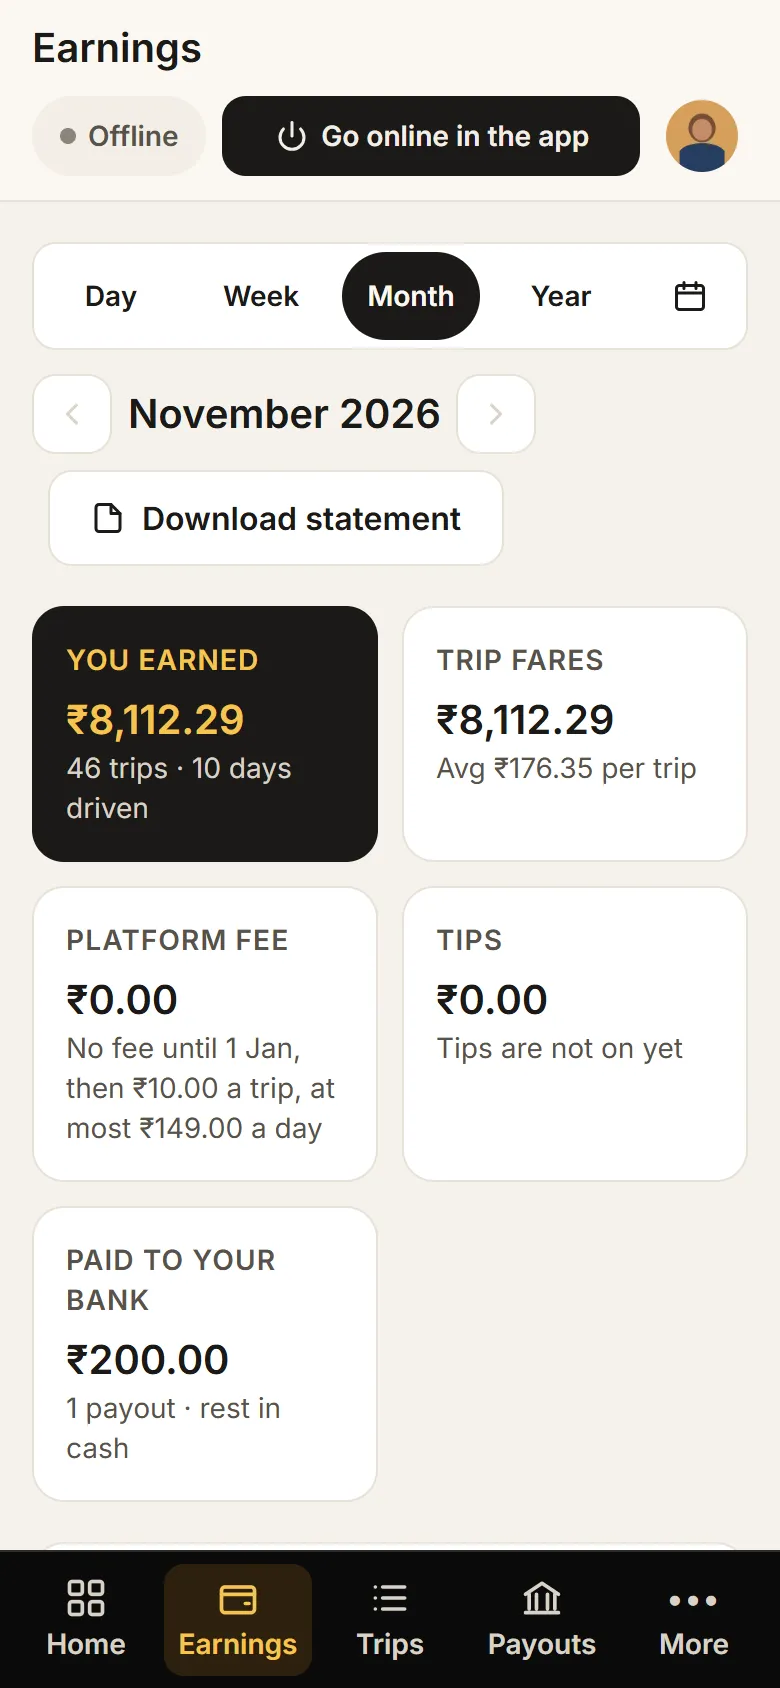
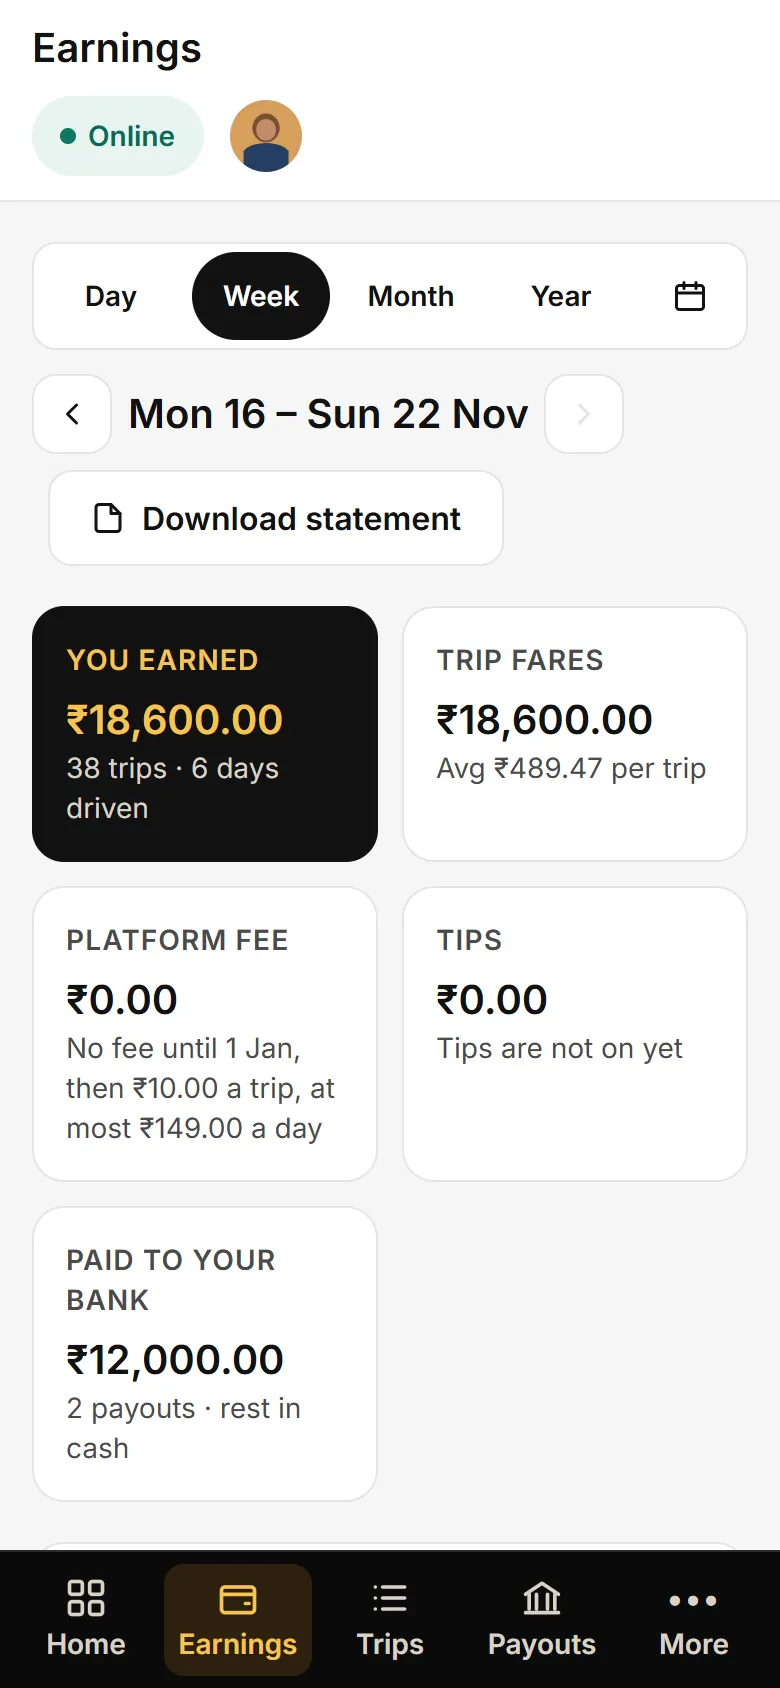
Phase 2 batch 2: every signed-in screen passes the 320-1920 sweep
- Sweep gates all public pages plus the signed-in rider and driver pages
  (signed fixture session), runs jobs in parallel, credits ::before hit
  areas, clips overlap checks to scroll containers, and exempts chart bars
  (each day is also a full-size row in the list).
- Area fixes: 44px row links, Cancel ride and open buttons; hit areas on
  every touch screen up to 1024px; rider header, Go online, rows, pills,
  period switcher, payouts search, document tiles and legal links wrap at
  the largest text; long emails wrap; dashboard chart scrolls in its card.
- Visual gates compare 390 as well as 1440; baselines re-recorded.
- Demo frames for Home and Safety (3-4 min ETAs, believable driver week,
  online, shared trip with its target); trip safety panel without the
  duplicate button row when embedded.

diff --git a/apps/web/src/styles/area.css b/apps/web/src/styles/area.css
@@ -697,11 +697,13 @@ button.er-bar { cursor: pointer; }
   content: ''; position: absolute; left: 50%; top: 50%; width: max(100%, 44px); height: max(100%, 44px);
   transform: translate(-50%, -50%);
 }
-.aemail { display: inline-block; max-width: 100%; overflow: hidden; text-overflow: ellipsis; white-space: nowrap; vertical-align: bottom; }
+/* 17 Nov: a long address wraps rather than being cut with an ellipsis. */
+.aemail { display: inline-block; max-width: 100%; overflow-wrap: anywhere; vertical-align: bottom; }
 /* 14 Nov: on a phone every tappable thing in the areas has a 44x44 hit area. Zero specificity, so
    any element that already sets its position keeps it; the pseudo-element widens what a finger hits
-   without changing what is drawn. */
-@media (max-width: 767px) {
+   without changing what is drawn. 17 Nov: every touch screen and anything up to tablet width, not
+   just phones. */
+@media (max-width: 1024px), (pointer: coarse) {
   :where(.ar) :where(a[href], button, summary, [role="switch"], [role="tab"], [role="radio"], [role="menuitem"]) { position: relative; }
   :where(.ar) :where(a[href], button, summary, [role="switch"], [role="tab"], [role="radio"], [role="menuitem"])::before {
     content: ''; position: absolute; left: 50%; top: 50%; width: max(100%, 44px); height: max(100%, 44px);
@@ -721,3 +723,43 @@ button.er-bar { cursor: pointer; }
   .er-files .su-link { min-width: 44px; min-height: 44px; }
   .ar-top > a:first-child { min-width: 44px; min-height: 44px; }
 }
+
+/* 17 Nov (any size): row buttons are 44px targets; a short map drops its long fallback line. */
+.tr-open__btn { display: inline-flex; align-items: center; min-height: 44px; }
+.ar-map { container: armap / size; }
+@container armap (max-height: 380px) { .ar-map .map-surface p { display: none; } }
+
+/* 17 Nov (any size): a document tile wraps its button under the text when the text is large,
+   rather than letting the button sit on the status pill. */
+.su-tile { flex-wrap: wrap; }
+.su-tile > .agrow { flex: 1 1 12em; min-width: 0; }
+.su-tile__meta { flex-wrap: wrap; }
+.su-pill { height: auto; min-height: 24px; }
+.ar .su-tbtn { height: auto; min-height: 44px; }
+
+/* 17 Nov (any size, largest text): the rider header wraps onto a second line rather than pushing
+   Account off the screen, and Go online wraps rather than cutting its label. */
+.ar-top { flex-wrap: wrap; height: auto; min-height: 72px; padding-block: 8px; row-gap: 4px; }
+.ar-nav { flex-wrap: wrap; min-width: 0; }
+.ar-tools { flex-wrap: wrap; justify-content: flex-end; min-width: 0; }
+@media (max-width: 767px) {
+  .ar .dr-head .dr-go { height: auto; white-space: normal; overflow: visible; text-align: center; }
+}
+/* 17 Nov (largest text): a row lets its amount or status drop under its title instead of running
+   off the screen; the legal links wrap; each dashboard column is at least as wide as its amount,
+   and the chart scrolls inside its card when they do not all fit. */
+.ar .arow { flex-wrap: wrap; }
+.sg-legal-line__links { flex-wrap: wrap; }
+.dr-chart { overflow-x: auto; padding-bottom: 4px; }
+.dr-chart > div { min-width: max-content; }
+.ar .arow > .agrow { flex: 1 1 min(10em, 100%); }
+/* 17 Nov (any size): status pills wrap long words; the period switcher wraps a chip to a second row
+   at the largest text; the month name shares its row with the arrows; a payouts search shrinks with
+   the screen; a card never grows past its column for the chart inside it. */
+.apill { white-space: normal; height: auto; min-height: 28px; text-align: center; }
+.er-tabs { flex-wrap: wrap; }
+.er-tabs .achip { flex: 1 1 auto; }
+.er-label { min-width: 0; flex: 1 1 0; overflow-wrap: anywhere; }
+.pay-period .er-search { flex: 1 1 12em; min-width: 0; }
+.ar .acard, .dr-chart { min-width: 0; }
+.pay-period { grid-template-columns: minmax(0, 1fr); }

diff --git a/apps/web/src/styles/site.css b/apps/web/src/styles/site.css
@@ -630,8 +630,7 @@
 .site .s-icon-btn { width: 44px; height: 44px; }
 .site .s-header__login { height: 44px; }
 .s-seg button { height: 44px; }
-.site a.sg-link { border-bottom: 0; }
-@media (max-width: 767px) { .site a.sg-link { display: inline-flex; align-items: center; min-height: 44px; } }
+.site a.sg-link { border-bottom: 0; display: inline-flex; align-items: center; min-height: 44px; }
 
 /* The hero map (17 Nov): a real city map built once (scripts/hero-map). Fluid: the wide drawing
    with labelled pins while its panel is 720px or wider; the compact drawing below that. */
@@ -666,7 +665,7 @@
 [data-theme="dark"] .hmap--boise-photo { background-image: image-set(url('/hero-map/boise-phone-dark@2x.webp') 2x, url('/hero-map/boise-phone-dark@3x.webp') 3x); }
 /* The SMS consent is read before agreeing, so it is body size; the company block's link is a 44px row. */
 .s-consent p.caption { font-size: var(--text-body); line-height: var(--leading-body); }
-@media (max-width: 767px) { .sg-company a { display: inline-flex; align-items: center; min-height: 44px; } }
+.sg-company a { display: inline-flex; align-items: center; min-height: 44px; }
 
 /* 17 Nov (any width): in a very narrow header the mark and wordmark step down instead of overflowing;
    with very large text the controls wrap under the brand. */
@@ -680,3 +679,10 @@
 /* The brand link is a 44px target at any header width; with very large text its name may wrap. */
 .site .s-brand { min-height: 44px; }
 .s-brand__name { white-space: normal; min-width: 0; }
+
+/* 17 Nov (any size, largest text): example chips, bars and buttons wrap instead of running off screen. */
+.s-example { white-space: normal; max-width: 100%; }
+.s-bar { flex-wrap: wrap; column-gap: 8px; }
+.site .sg-btn { height: auto; min-height: 48px; white-space: normal; overflow-wrap: anywhere; text-align: center; max-width: 100%; }
+.site input[type="search"], .site .s-help-search input { min-width: 0; max-width: 100%; }
+.s-search { min-width: 0; max-width: 100%; height: auto; min-height: 54px; }

diff --git a/apps/web/src/components/area/rider/RiderTrips.tsx b/apps/web/src/components/area/rider/RiderTrips.tsx
@@ -108,7 +108,7 @@ export function RiderTrips() {
                     {when && <div className="ab">{when.first}<div className="a14 amut" style={{ fontWeight: 400 }}>{when.second}</div></div>}
                   </td>
                   <td>
-                    <Link href={href} className="ab" style={{ color: "inherit", display: "block" }}>{to}</Link>
+                    <Link href={href} className="ab" style={{ color: "inherit", display: "flex", alignItems: "center", minHeight: 44 }}>{to}</Link>
                     {from && <div className="a14 amut">{tr('from')} {from}</div>}
                   </td>
                   <td>{className(t.vehicle_info?.type ?? t.requested_vehicle_type)}</td>
@@ -141,7 +141,7 @@ export function RiderTrips() {
                     {tr(done ? 'Completed' : cancelled ? 'Cancelled' : 'In progress')}
                   </span>
                 </div>
-                <Link href={href} className="ab" style={{ color: 'inherit' }}>{from ? `${from} → ${to}` : to}</Link>
+                <Link href={href} className="ab" style={{ color: 'inherit', display: 'inline-flex', alignItems: 'center', minHeight: 44 }}>{from ? `${from} → ${to}` : to}</Link>
                 <div className="arow a14">
                   <span className="amut">{className(t.vehicle_info?.type ?? t.requested_vehicle_type)}</span>
                   <span className="ab amoney">{fare}</span>

diff --git a/apps/web/src/components/booking/TripSafety.tsx b/apps/web/src/components/booking/TripSafety.tsx
@@ -39,6 +39,8 @@ type Props = {
   pickup?: { lat: number; lng: number } | null;
   /** Share the trip's live link instead of a text summary (rider area, 9 Nov). */
   onShare?: () => Promise<void> | void;
+  /** Opened from the trip's own Safety button (17 Nov): start open, without a second Share/Safety row. */
+  embedded?: boolean;
 };
 
 type Sos =
@@ -52,7 +54,7 @@ type Sos =
 
 export function TripSafety(props: Props) {
   const { tripId, country } = props;
-  const [open, setOpen] = useState(false);
+  const [open, setOpen] = useState(!!props.embedded);
   const [numbers, setNumbers] = useState<SafetyNumbers | null>(null);
   const [sos, setSos] = useState<Sos>({ kind: 'idle' });
   const [shareNote, setShareNote] = useState<string | null>(null);
@@ -152,7 +154,7 @@ export function TripSafety(props: Props) {
 
   return (
     <div className="grid gap-sg-3">
-      <div className="grid grid-cols-2 gap-sg-3">
+      {!props.embedded && <div className="grid grid-cols-2 gap-sg-3">
         <button type="button" className="sg-btn sg-btn--secondary" onClick={share}>
           <Share />
           Share trip
@@ -167,7 +169,7 @@ export function TripSafety(props: Props) {
           <Shield />
           Safety
         </button>
-      </div>
+      </div>}
       {shareNote && (
         <p className="caption text-ink-muted m-0" role="status">
           {shareNote}

diff --git a/apps/web/src/components/area/rider/RideTrip.tsx b/apps/web/src/components/area/rider/RideTrip.tsx
@@ -319,7 +319,7 @@ export function RideTrip({ id }: { id: string }) {
           <div className="site">
             <TripSafety tripId={id} driverName={t?.driver_name} plate={plate} pickupLabel={t?.pickup_address}
               destinationLabel={t?.destination_address} position={driverAt} pickup={pickup}
-              onShare={AREA_FLAGS.shareLink ? share : undefined} />
+              onShare={AREA_FLAGS.shareLink ? share : undefined} embedded />
           </div>
         )}
 
@@ -369,7 +369,7 @@ export function RideTrip({ id }: { id: string }) {
         )}
         {!over && !cancelling && (
           <button type="button" className="a14 amut" onClick={() => setCancelling(true)}
-            style={{ marginTop: 'auto', textAlign: 'center', textDecoration: 'underline', background: 'none', border: 0, cursor: 'pointer', font: 'inherit' }}>
+            style={{ marginTop: 'auto', minHeight: 44, textAlign: 'center', textDecoration: 'underline', background: 'none', border: 0, cursor: 'pointer', font: 'inherit' }}>
             {tr('Cancel ride')}
           </button>
         )}

diff --git a/apps/web/src/components/area/driver/parts.tsx b/apps/web/src/components/area/driver/parts.tsx
@@ -49,9 +49,12 @@ export function DriverTop({ title, sub, me }: { title: string; sub?: string | nu
           <span className={`adot${on ? ' adot--on' : ''}`} aria-hidden="true" />{tr(on ? 'Online' : me.status ? 'Offline' : 'Status unknown')}
         </span>
       )}
-      <span className="abtn abtn--dark dr-go" role="note"><IPower size={18} />
-        <span className="dr-go__long">{tr('Go online in the driver app')}</span><span className="dr-go__short">{tr('Go online in the app')}</span>
-      </span>
+      {/* Only while offline: online drivers were told to go online (17 Nov). */}
+      {!on && (
+        <span className="abtn abtn--dark dr-go" role="note"><IPower size={18} />
+          <span className="dr-go__long">{tr('Go online in the driver app')}</span><span className="dr-go__short">{tr('Go online in the app')}</span>
+        </span>
+      )}
       <ProfileMenu links={DRIVER_MENU} onSignOut={() => signOut()} extra={both && (
         <button type="button" role="menuitem" onClick={() => switchTo('rider')}>
           <ISwitch size={18} />{tr('Switch to rider')}

diff --git a/apps/web/src/components/area/driver/DriverEarnings.tsx b/apps/web/src/components/area/driver/DriverEarnings.tsx
@@ -82,7 +82,7 @@ function Chart({ h, locale, label }: { h: History; locale: string; label: string
                 </span>
               )}
               {h.chart.unit === 'day' ? (
-                <button type="button" className={`er-bar${b.key === h.today ? ' er-bar--today' : ''}`} style={{ height: px }} aria-label={name} {...show}
+                <button type="button" data-chart-mark className={`er-bar${b.key === h.today ? ' er-bar--today' : ''}`} style={{ height: px }} aria-label={name} {...show}
                   // A tap also focuses the bar (which opens its tip), so what counts is whether the tip was open
                   // before this touch began: the first tap shows it, the second opens the day's trips.
                   onPointerDown={(e) => { touch.current = e.pointerType === 'touch'; openBefore.current = tip === i; }}
